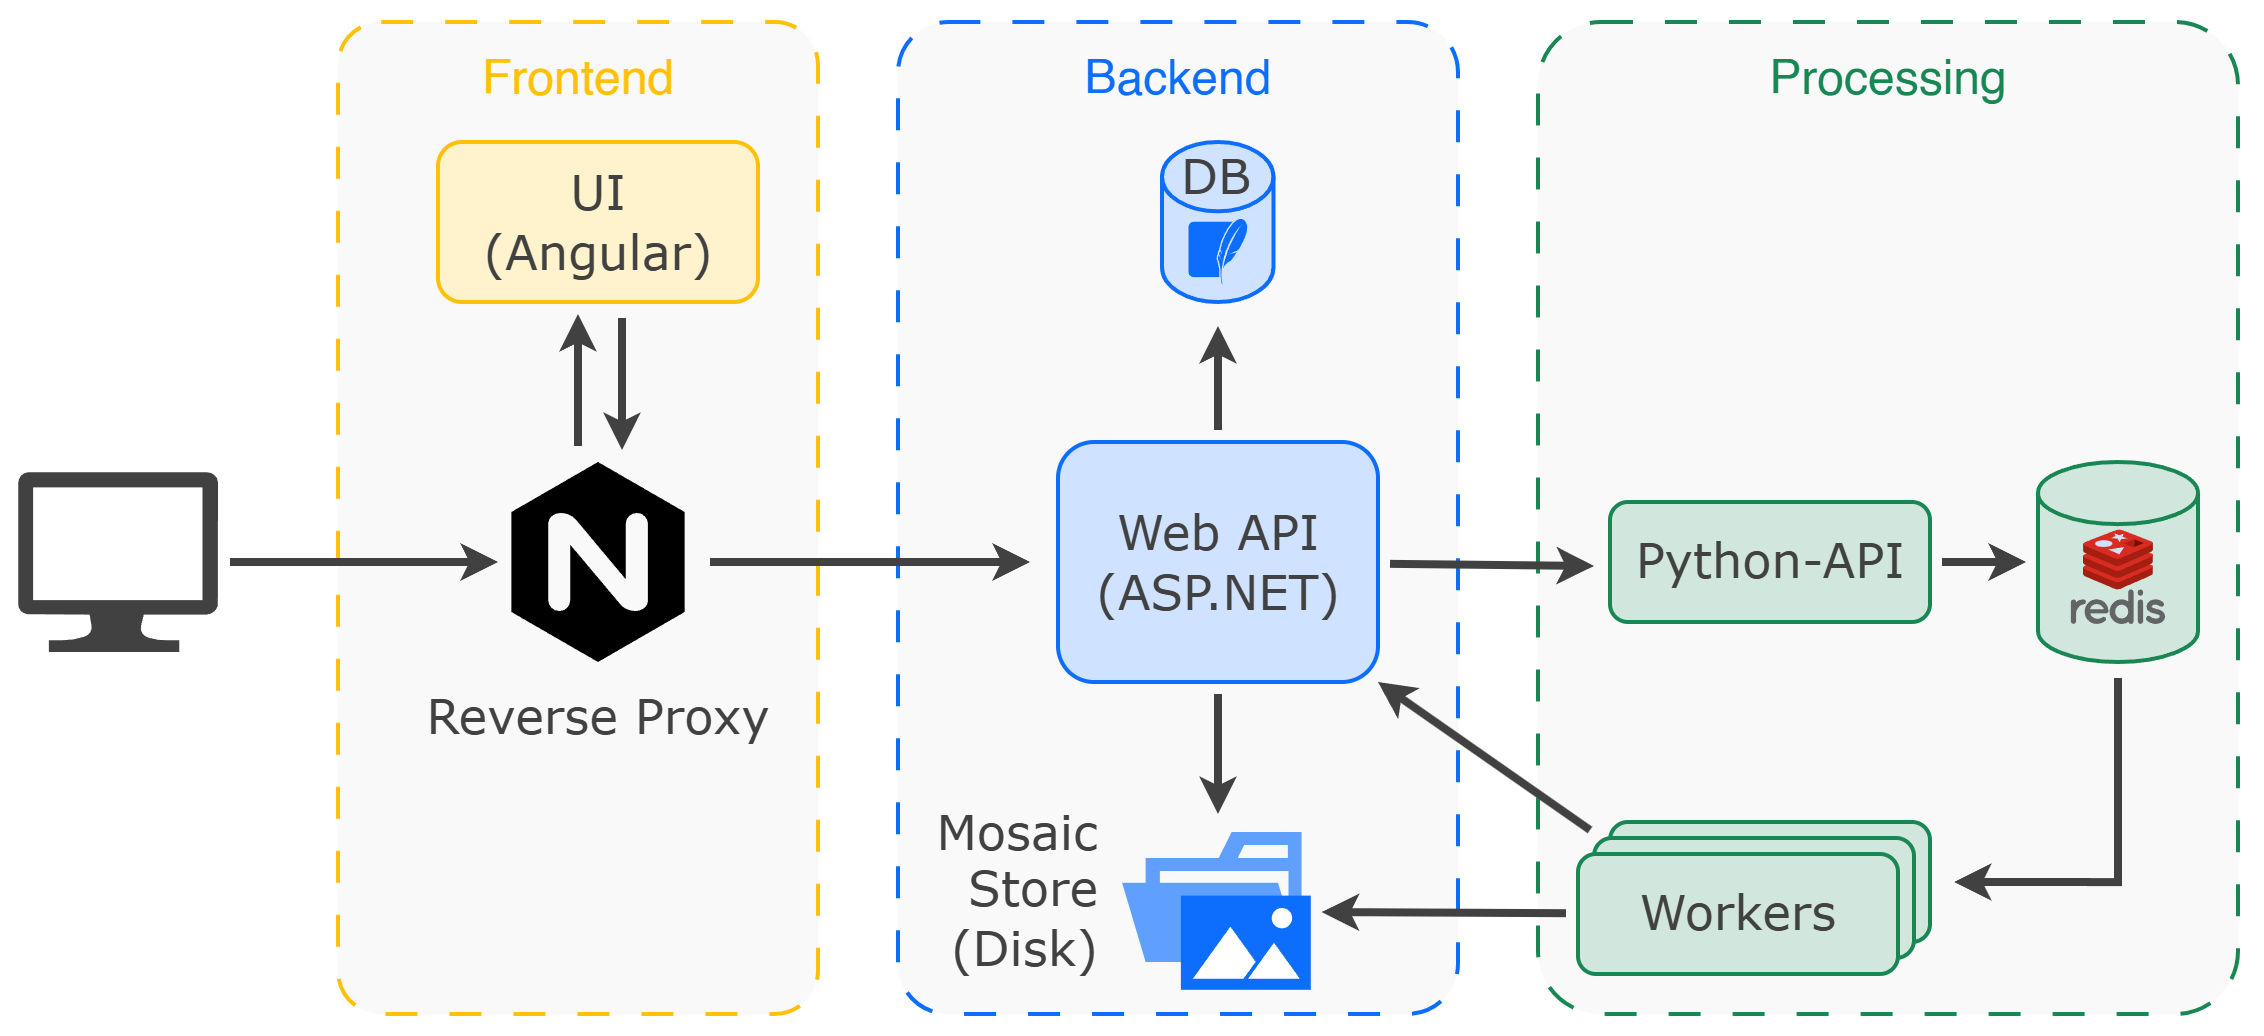
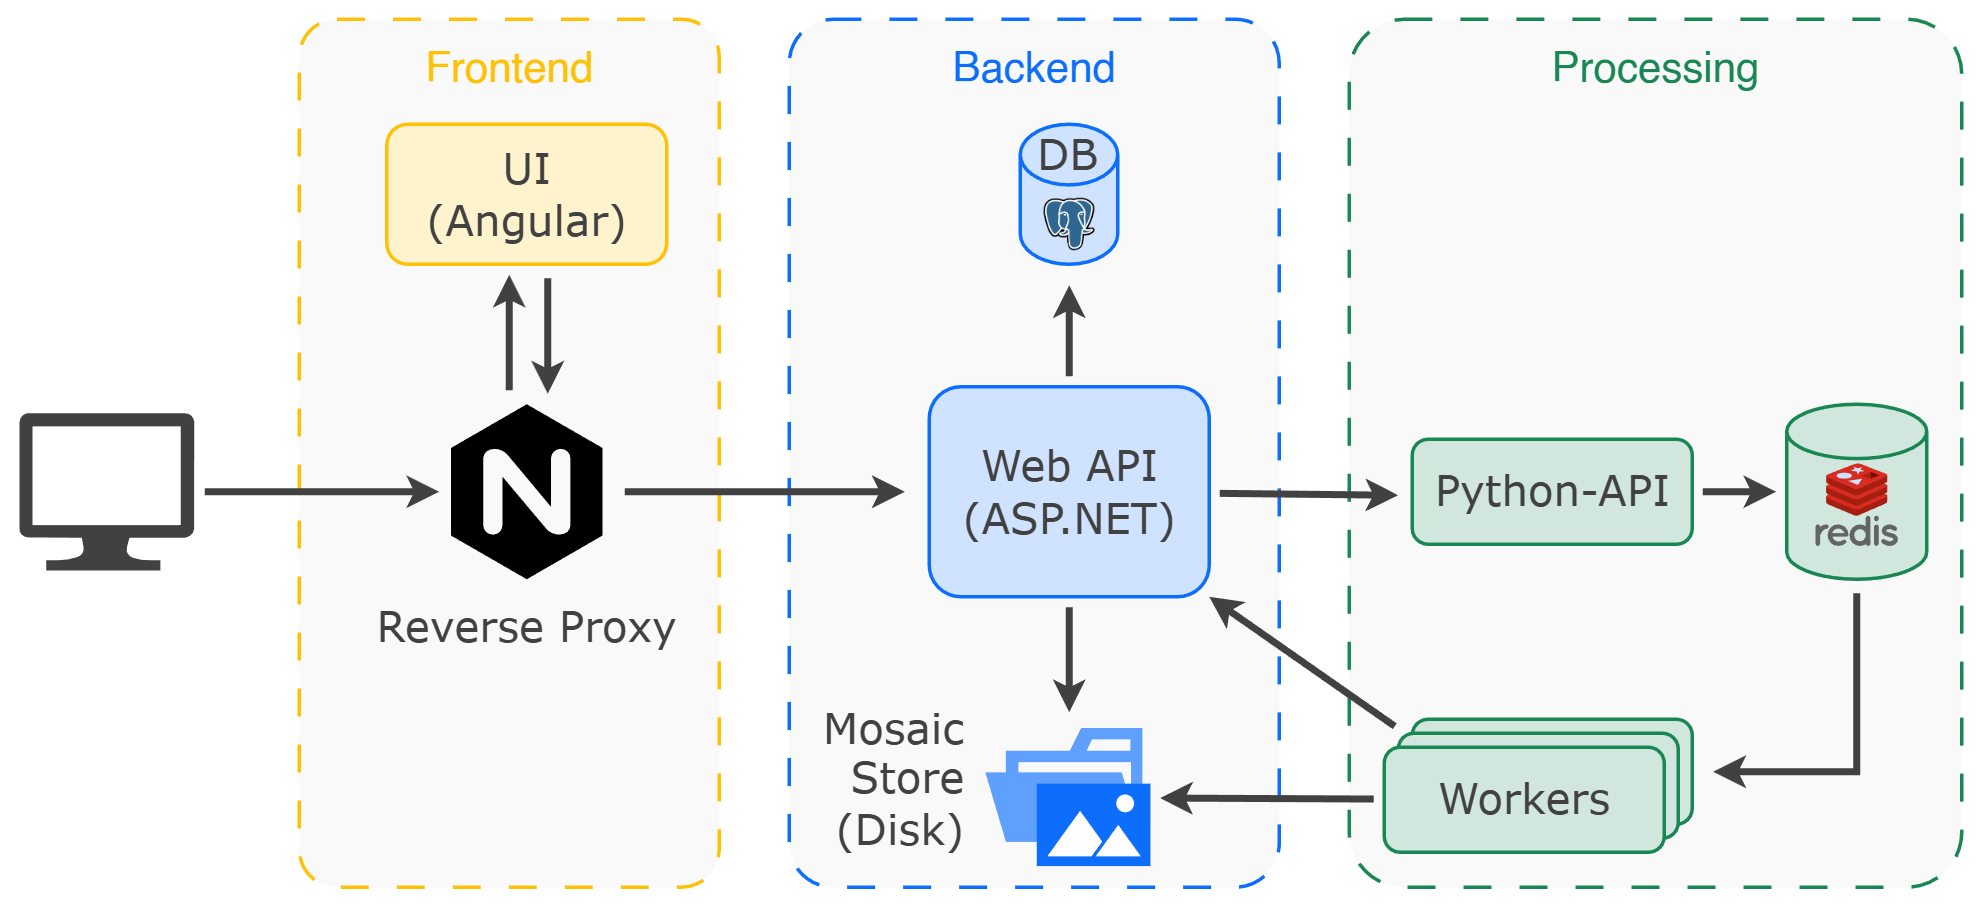
Switch to PostgreSQL for production

diff --git a/frontend/src/app/services/auth.service.ts b/frontend/src/app/services/auth.service.ts
@@ -1,9 +1,9 @@
 import {computed, inject, Injectable, signal} from '@angular/core';
 import {ApiService, AuthResponse} from './api.service';
 import {Router} from '@angular/router';
-import {BehaviorSubject, catchError, filter, finalize, Observable, of, switchMap, take, tap, timer} from 'rxjs';
+import {BehaviorSubject, catchError, filter, finalize, of, switchMap, take, tap} from 'rxjs';
 import {toObservable, toSignal} from '@angular/core/rxjs-interop';
-import {HttpEvent, HttpHandlerFn, HttpRequest} from '@angular/common/http';
+import {HttpRequest} from '@angular/common/http';
 
 
 export const maxNameLength = 128;

diff --git a/backend/Helpers/DatabaseHelper.cs b/backend/Helpers/DatabaseHelper.cs
@@ -1,5 +1,6 @@
 using Microsoft.Data.Sqlite;
 using Microsoft.EntityFrameworkCore;
+using Microsoft.EntityFrameworkCore.Infrastructure;
 
 namespace backend.Helpers;
 
@@ -8,19 +9,29 @@ public static class DatabaseHelper
     public static void EnsureDatabaseAndDirectoryCreated<TContext>(TContext context)
         where TContext : DbContext
     {
-        // Extract the path from connection string
-        var connectionString = context.Database.GetDbConnection().ConnectionString;
-        var builder = new SqliteConnectionStringBuilder(connectionString);
-        var dbPath = builder.DataSource;
 
-        // Ensure directory exists
-        var dir = Path.GetDirectoryName(dbPath);
-        if (!string.IsNullOrEmpty(dir) && !Directory.Exists(dir))
+        if (IsSqlite(context.Database))
         {
-            Directory.CreateDirectory(dir);
+            // Extract the path from connection string
+            var connectionString = context.Database.GetDbConnection().ConnectionString;
+            var builder = new SqliteConnectionStringBuilder(connectionString);
+            var dbPath = builder.DataSource;
+
+            // Ensure directory exists
+            var dir = Path.GetDirectoryName(dbPath);
+            if (!string.IsNullOrEmpty(dir) && !Directory.Exists(dir))
+            {
+                Directory.CreateDirectory(dir);
+            }
         }
 
         // Create DB if missing
-        context.Database.EnsureCreated();
+        context.Database.EnsureCreated(); // could be changed to use migrations for production
+    }
+
+    public static bool IsSqlite(DatabaseFacade database)
+    {
+        var provider = database.ProviderName;
+        return provider != null && provider.Contains("Sqlite", StringComparison.OrdinalIgnoreCase);
     }
 }

diff --git a/backend/Program.cs b/backend/Program.cs
@@ -13,6 +13,7 @@ using Microsoft.EntityFrameworkCore;
 using Microsoft.IdentityModel.Tokens;
 
 var builder = WebApplication.CreateBuilder(args);
+var isDevelopment = builder.Environment.IsDevelopment();
 
 // Add services to the container.
 // Learn more about configuring OpenAPI at https://aka.ms/aspnet/openapi
@@ -20,7 +21,17 @@ builder.Services.AddOpenApi();
 
 // Database service
 builder.Services.AddDbContext<AppDbContext>(options =>
-    options.UseSqlite(builder.Configuration.GetConnectionString("DefaultConnection")));
+{
+    var connection = builder.Configuration.GetConnectionString("DefaultConnection");
+    if (isDevelopment)
+    {
+        options.UseSqlite(connection); // Sqlite
+    }
+    else
+    {
+        options.UseNpgsql(connection); // Postgres
+    }
+});
 
 
 // Authentication
@@ -65,7 +76,7 @@ builder.Services.AddAuthorizationBuilder()
     .AddPolicy("AdminPolicy", policy => policy.RequireRole("Admin"))
     .AddPolicy("UserPolicy", policy => policy.RequireRole("User"))
     .AddPolicy("GuestPolicy", policy => policy.RequireRole("Guest"))
-    .AddPolicy("AnyRolePolicy", policy => 
+    .AddPolicy("AnyRolePolicy", policy =>
         policy.RequireRole("Admin", "User", "Guest"))
     .AddPolicy("OwnerOrAdmin", policy => policy.RequireAssertion(context =>
         {
@@ -121,7 +132,7 @@ var app = builder.Build();
 app.UseCors(corsPolicy); // MUST come before endpoint mapping
 
 // Configure the HTTP request pipeline.
-if (app.Environment.IsDevelopment())
+if (isDevelopment)
 {
     app.MapOpenApi();
 }

diff --git a/backend/Data/AppDbContext.cs b/backend/Data/AppDbContext.cs
@@ -1,4 +1,5 @@
-using backend.Models;
+using backend.Helpers;
+using backend.Models;
 using Microsoft.AspNetCore.Identity;
 using Microsoft.AspNetCore.Identity.EntityFrameworkCore;
 using Microsoft.EntityFrameworkCore;
@@ -18,21 +19,23 @@ public class AppDbContext(DbContextOptions<AppDbContext> options)
     protected override void OnModelCreating(ModelBuilder modelBuilder)
     {
         base.OnModelCreating(modelBuilder);
+        var currentTimestamp = DatabaseHelper.IsSqlite(Database) ? "CURRENT_TIMESTAMP" : "NOW()";
+        
         modelBuilder.Entity<User>()
             .Property(u => u.CreatedAt)
-            .HasDefaultValueSql("CURRENT_TIMESTAMP")
+            .HasDefaultValueSql(currentTimestamp)
             .ValueGeneratedOnAdd();
         modelBuilder.Entity<Project>()
             .Property(p => p.CreatedAt)
-            .HasDefaultValueSql("CURRENT_TIMESTAMP")
+            .HasDefaultValueSql(currentTimestamp)
             .ValueGeneratedOnAdd();
         modelBuilder.Entity<Job>()
             .Property(t => t.StartedAt)
-            .HasDefaultValueSql("CURRENT_TIMESTAMP")
+            .HasDefaultValueSql(currentTimestamp)
             .ValueGeneratedOnAdd();
         modelBuilder.Entity<RefreshToken>()
             .Property(u => u.CreatedAt)
-            .HasDefaultValueSql("CURRENT_TIMESTAMP")
+            .HasDefaultValueSql(currentTimestamp)
             .ValueGeneratedOnAdd();
 
         modelBuilder.Entity<Job>()

diff --git a/README.md b/README.md
@@ -5,10 +5,10 @@
 This project demonstrates a **photo mosaic generator** built with:
 
 - **Backend** (`/backend`): ASP.NET Core 9 Web API  
-  Handles user requests, image uploads, mosaic generation orchestration, and stores metadata in SQLite + raw files on disk (`/backend/storage` during development).  
+  Handles user requests, image uploads, mosaic generation orchestration, and stores metadata in a database (default is PostgreSQL in prod, Sqlite in dev) and raw files on disk (`/backend/storage` during development).  
 
 - **Frontend** (`/frontend`): Angular  
-  Provides the UI for uploading images, managing generation jobs, and displaying generated mosaics.  
+  Provides the UI for uploading images, managing generation jobs and displaying generated mosaics.  
   Served via Nginx, which also proxies `/backend-api/` requests to the backend container.
 
 - **Processing** (`/processing`): Python  
@@ -45,6 +45,8 @@ This project is under active development. Features are subject to change, some m
           - Jwt__Key=MyVerySecureNewKey
           - Admin__Password=MyVerySecurePassword
     ```
+
+    It is also recommended to change the default password of the database and adjust the `ConnectionStrings__DefaultConnection` backend environment variable accordingly.
 3. Build and start containers:
     ```bash
     docker-compose up --build
@@ -81,7 +83,7 @@ Other notes:
 ---
 
 ## Third-Party Libraries / Acknowledgements
-This project is MIT licensed. In particular, it uses the following third-party libraries:
+This project is MIT licensed. In particular, it uses the following third-party libraries and data sets:
 - libvips – LGPL-2.1. https://github.com/libvips/libvips
 
 - OpenSeadragon – BSD-3 license. https://openseadragon.github.io/

diff --git a/backend/README.md b/backend/README.md
@@ -1,7 +1,7 @@
 # Backend – Photo Mosaic Web App
 
 This is the **ASP.NET Core 9 Web API** that powers the Photo Mosaic application.  
-It handles image uploads, mosaic generation, and metadata storage in SQLite.  
+It handles image uploads, mosaic generation, and metadata storage in the backing database.  
 
 ---
 
@@ -9,7 +9,6 @@ It handles image uploads, mosaic generation, and metadata storage in SQLite.
 
 ### Prerequisites
 - [.NET 9 SDK](https://dotnet.microsoft.com/download)
-- (Optional) Rider / Visual Studio Code / Visual Studio
 
 ### Steps
 1. Ensure the containers required for processing are running
@@ -33,7 +32,8 @@ Configuration is loaded from appsettings.json and appsettings.Development.json.
 
 For development, uploaded files and the SQLite database are stored in the `storage/` directory.
 
-For production, it is recommended to use the supplied [`docker-compose.yml`](../docker-compose.yml) file in the project root. It automatically creates a volume for persistent file and database storage.
+For production, it is recommended to use the supplied [`docker-compose.yml`](../docker-compose.yml) file in the project root. It automatically creates a volume for persistent file storage 
+and PostgreSQL is used as the database (it is recommended to change the default password in [`docker-compose.yml`](../docker-compose.yml)).
 Processing containers are deployed as well.
 It is also important to change the Admin password and JWT key. This can be done with the environment variables `Admin__Password` and `Jwt__Key`.
 
